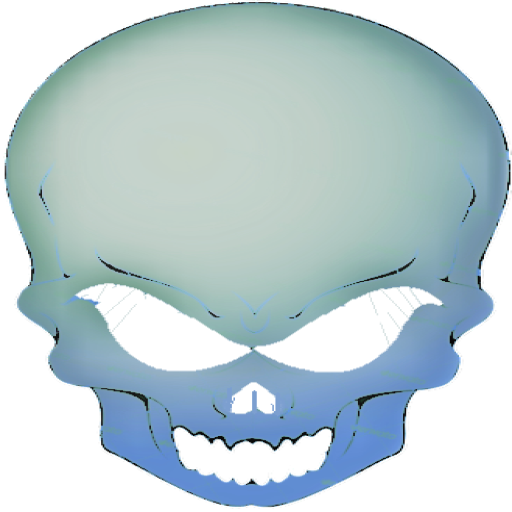
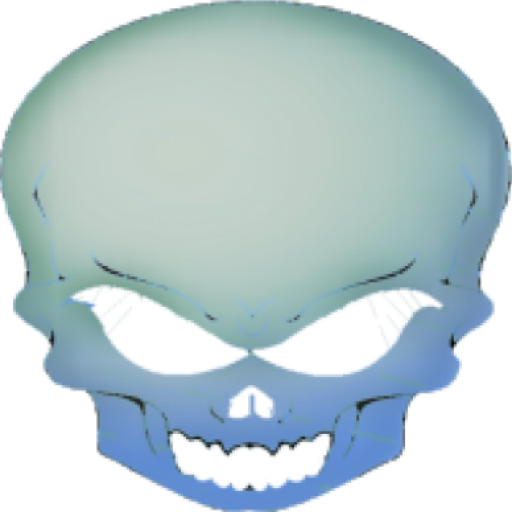
sprite testing

diff --git a/main.js b/main.js
@@ -17,7 +17,7 @@ const player = {
 };
 
 const playerSprite = new Image();
-playerSprite.src = "images/protocoldroid2.png";
+playerSprite.src = "images/light-skull-sprite-1.png";
 const background = new Image();
 background.src = "images/cityscape07edit.jpg";
 
